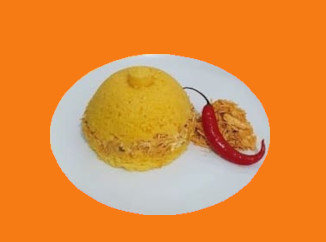
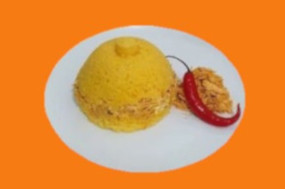
Alteração de posicionamento das imagens

Changed region(s): [[0.1404, 0.1058, 0.8702, 0.9259], [0.1404, 0.5291, 0.2526, 0.7937], [0.2526, 0.7937, 0.2807, 0.8201]]

diff --git a/index.html b/index.html
@@ -6,16 +6,13 @@
     <title>Cardápio</title>
     <meta name="description" content="Cardápio de confeitaria">
     <meta name="author" content="Adja Santana">
-    <meta name="keywords" content="confeitaria, doces, cardápio">
+    <meta name="keywords" content="nordestino, cuscuz, cardápio">
     <link rel="stylesheet" href="style.css">
 </head>
 <body>
     <h1 class="titulo">Cuscuz Nordestino</h1>
-
     <h2 class="subtitulo">O que já era tradicional em sua mesa agora virou gurmet.</h2>
-
     <br>
-
     <p class="atendimento">
          &#x1F4F1 Atendimento de segunda à domingo<br>
         &#x1F560 17:30 / 22:00 <br>
@@ -23,98 +20,100 @@
     </p>
     <br>
     <h2 class="sabores">Sabores</h2>
+    <main>
+        <!--Primeira sessão-->
+        <section class="primeira">
 
-    <!--Primeira sessão-->
-    <section class="primeira">
+            <!--Primeiro card-->
+            <div class="oneCard">
+                <div class="topCard">
+                    <h2 class="title">Abestado</h2>
+                    <span class="secondText">R$ 17,00</span>
+                </div>
+                <div class="pMediaCard">
+                    <img src="assets/abestado.jpg" alt="Cuscuz abestado" width="150px";>
+                </div>
+                <div class="downCard">
+                    <p>Cuscuz, calabresa<br> e queijo cheddar cremoso</p>
+                </div>
+            </div>
+            
+            <!--Segundo card-->
+            <div class="twoCard">
+                <div class="topCard">
+                    <h2 class="title">Oxe</h2>
+                    <span class="secondText">R$ 17,00</span>
+                </div>
+                <div class="sMediaCard">
+                    <img src="assets/oxe.jpg" alt="Cuscuz oxe" width="150px";>
+                </div>
+                <div class="downCard">
+                    <p>Cuscuz, banana da terra com<br> canela em pó e queijo mussarela</p>
+                </div>
+            </div>
 
-        <!--Primeiro card-->
-        <div class="pCard">
-            <div class="topCard">
-                <h2 class="title">Abestado</h2>
-                <span class="secondText">R$ 17,00</span>
+            <!--Terceiro card-->
+            <div class="threeCard">
+                <div class="topCard">
+                    <h2 class="title">Rapariga</h2>
+                    <span class="secondText">R$ 17,00</span>
+                </div>
+                <div class="tMediaCard">
+                    <img src="assets/rapariga.jpg" alt="Cuscuz abestado" width="150px";>
+                </div>
+                <div class="downCard">
+                    <p>Frango desfiado temperado<br> com requeijão cremoso</p>
+                </div>
             </div>
-            <div class="pMediaCard">
-                <img src="assets/abestado.jpg" alt="Cuscuz abestado" width="150px";>
-            </div>
-            <div class="downCard">
-                <p>Cuscuz, calabresa e queijo cheddar cremoso</p>
-            </div>
-        </div>
+        </section>
+        <br>
+        <!--Fim da primeira sessão-->
         
-        <!--Segundo card-->
-        <div class="sCard">
-            <div class="topCard">
-                <h2 class="title">Oxe</h2>
-                <span class="secondText">R$ 17,00</span>
-            </div>
-            <div class="sMediaCard">
-                <img src="assets/oxe.jpg" alt="Cuscuz oxe" width="150px";>
-            </div>
-            <div class="downCard">
-                <p>Cuscuz, banana da terra com canela em pó e queijo mussarela</p>
-            </div>
-        </div>
+        <!--Segunda sessão-->
+        <section class="segunda">
 
-        <!--Terceiro card-->
-        <div class="tCard">
-            <div class="topCard">
-                <h2 class="title">Rapariga</h2>
-                <span class="secondText">R$ 17,00</span>
+            <!--Quarto card-->
+            <div class="fourCard">
+                <div class="topCard">
+                    <h2 class="title">Cabra macho</h2>
+                    <span class="secondText">R$ 17,00</span>
+                </div>
+                <div class="mediaCard">
+                    <img src="assets/cabraMacho.jpg" alt="Cuscuz cabra macho" width="150px";>
+                </div>
+                <div class="downCard">
+                    <p>Cuscuz, lombinho defumado,<br> queijo mussarela, calabresa fatiada e catupiry</p>
+                </div>
             </div>
-            <div class="tMediaCard">
-                <img src="assets/rapariga.jpg" alt="Cuscuz abestado" width="150px";>
-            </div>
-            <div class="downCard">
-                <p>Frango desfiado temperado com requeijão cremoso</p>
-            </div>
-        </div>
-    </section>
-    <!--Fim da primeira sessão-->
-    
-    <!--Segunda sessão-->
-    <section class="segunda">
 
-        <!--Quarto card-->
-        <div class="quaCard">
-            <div class="topCard">
-                <h2 class="title">Cabra macho</h2>
-                <span class="secondText">R$ 17,00</span>
+            <!--Quinto card-->
+            <div class="fiveCard">
+                <div class="topCard">
+                    <h2 class="title">Lampião</h2>
+                    <span class="secondText">R$ 19,00</span>
+                </div>
+                <div class="mediaCard">
+                    <img src="assets/lampiao.jpg" alt="Cuscuz lampião" width="150px";>
+                </div>
+                <div class="downCard">
+                    <p>Cuscuz, calabresa,<br> queijo coalho e pomenta calabresa</p>
+                </div>
             </div>
-            <div class="mediaCard">
-                <img src="assets/cabraMacho.jpg" alt="Cuscuz cabra macho" width="150px";>
-            </div>
-            <div class="downCard">
-                <p>Cuscuz, lombinho defumado, queijo mussarela, calabresa fatiada e catupiry</p>
-            </div>
-        </div>
 
-        <!--Quinto card-->
-        <div class="quiCard">
-            <div class="topCard">
-                <h2 class="title">Lampião</h2>
-                <span class="secondText">R$ 19,00</span>
+            <!--Sexto card-->
+            <div class="sixCard">
+                <div class="topCard">
+                    <h2 class="title">Nordestino</h2>
+                    <span class="secondText">R$ 19,00</span>
+                </div>
+                <div class="mediaCard">
+                    <img src="assets/lampiao.jpg" alt="Cuscuz abestado" width="150px";>
+                </div>
+                <div class="downCard">
+                    <p>Cuscuz, carne seca<br> temperada e queijo coalho</p>
+                </div>
             </div>
-            <div class="mediaCard">
-                <img src="assets/lampiao.jpg" alt="Cuscuz lampião" width="150px";>
-            </div>
-            <div class="downCard">
-                <p>Cuscuz, calabresa, queijo coalho e pomenta calabresa</p>
-            </div>
-        </div>
-
-        <!--Sexto card-->
-        <div class="sCard">
-            <div class="topCard">
-                <h2 class="title">Nordestino</h2>
-                <span class="secondText">R$ 19,00</span>
-            </div>
-            <div class="mediaCard">
-                <img src="assets/lampiao.jpg" alt="Cuscuz abestado" width="150px";>
-            </div>
-            <div class="downCard">
-                <p>Cuscuz, carne seca temperada e queijo coalho</p>
-            </div>
-        </div>
-    </section>
+        </section>
+    </main>
 </body>
 </html>

diff --git a/style.css b/style.css
@@ -23,69 +23,47 @@ body{
     text-align: center;
 }
 
-/*Primeira sessão*/
-.primeira{
-    padding-top: 3%;
-    width: 100%;
+section{
+    margin: 40px;
+    padding-left: 9%;
 }
 
-.pCard{
+.topCard{
+    padding-bottom: 20px;
+}
+
+.oneCard{
     text-align: center;
-    border-radius: 20px;
-    width: 25%;
-    display: inline;
-    float: left;
-    
+    display: inline-block;
+    padding-left: 9%;
 }
 
-.sCard{
+.twoCard{
     text-align: center;
-    border-radius: 20px;
-    width: 10%;
-    padding-left: 10%;
-    padding-right: 30%;
-    display: flex;
-    float: left;
+    padding-left: 12%;
+    display: inline-block;
 }
 
-.tCard{
+.threeCard{
     text-align: center;
-    border-radius: 20px;
-    width: 28%;
-    padding-left: 5%;
-    display: inline;
-    float: right;
+    padding-left: 11%;
+    display: inline-block;
 }
 
-/*Segunda sessão*/
-.segunda{
- padding-top: 25%;
- width: 100%;
-}
-
-.quaCard{
+.fourCard{
     text-align: center;
-    border-radius: 20px;
-    width: 25%;
-    display: inline;
-    float: left;
+    padding-left: 3%;
+    display: inline-block;
 }
 
-.quiCard{
+.fiveCard{
     text-align: center;
-    border-radius: 20px;
-    width: 25%;
-    padding-left: 5%;
-    padding-right: 4%;
-    display: inline;
-    float: left;
+    padding-left: 7%;
+    display: inline-block;
 }
 
-.sCard{
+.sixCard{
     text-align: center;
-    border-radius: 20px;
-    width: 10%;
-    padding-left: 1%;
-    display: inline;
-    float: right;
+    padding-left: 11%;
+    display: inline-block;
 }
